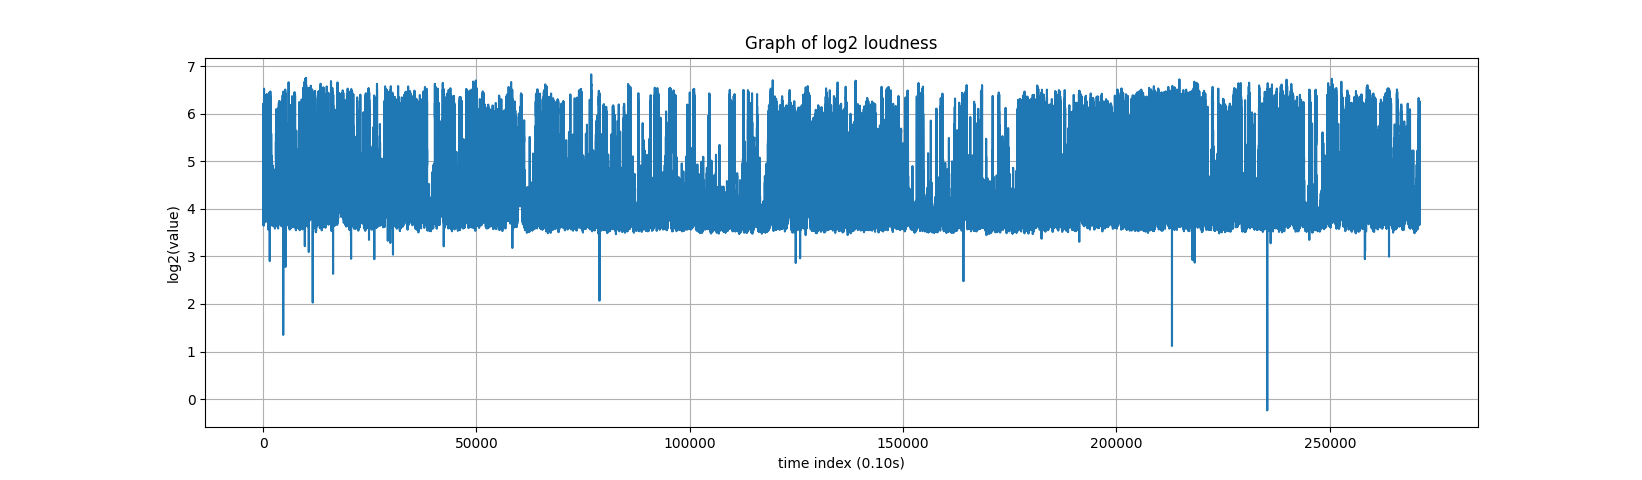
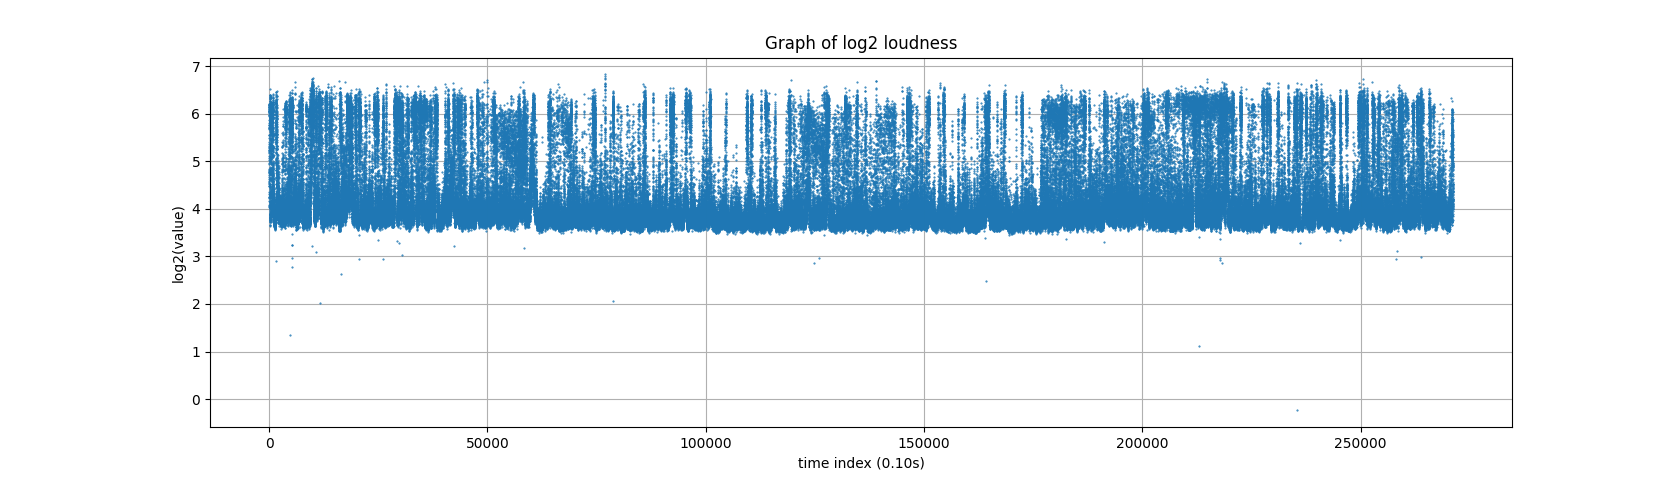
better graph format

diff --git a/analysis.py b/analysis.py
@@ -59,7 +59,7 @@ for start in range(0, len(data), window_size):
 for timestamp in loud_parts:
     print(f"Loud part at {timestamp:.2f} seconds")
 
-plt.plot(graph, linestyle='-')
+plt.plot(graph, linestyle='None', marker='.', markersize=1)
 plt.title('Graph of log2 loudness')
 plt.xlabel(f'time index ({window_seconds:.2f}s)')
 plt.ylabel('log2(value)')
